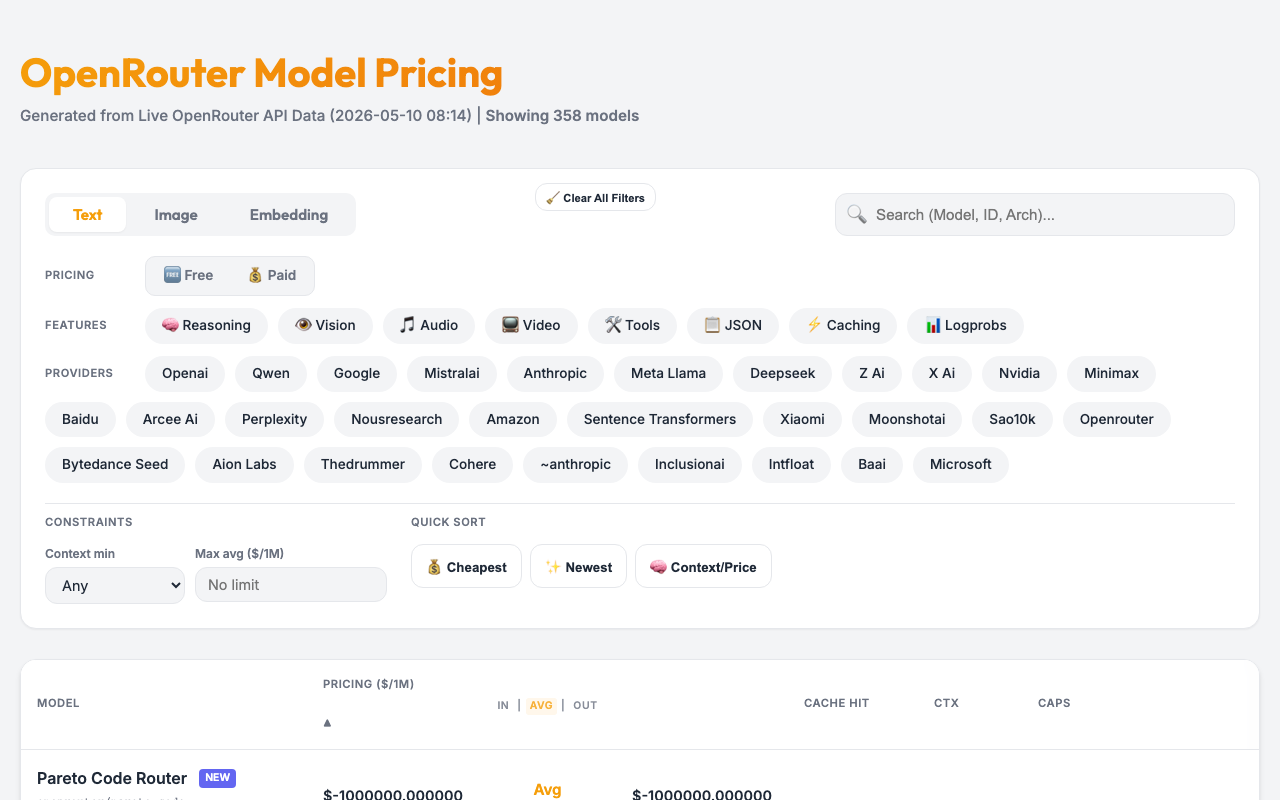
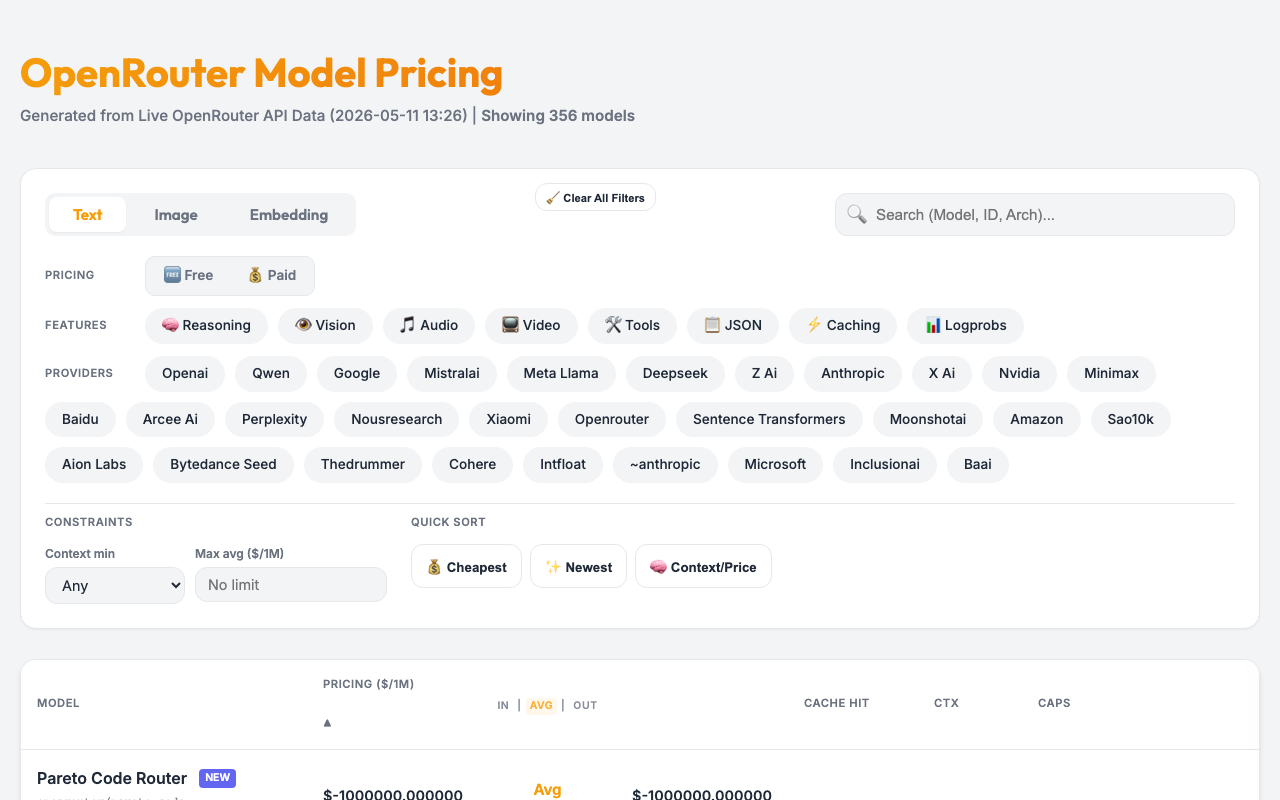
chore: automated pricing update (2026-05-11 13:26:31)
❌ Removed Models (2): anthropic/claude-3.7-sonnet, anthropic/claude-3.7-sonnet:thinking
🔄 Changed Models (1): moonshotai/kimi-k2.5

diff --git a/docs/index.html b/docs/index.html
@@ -668,7 +668,7 @@
     <div class="container">
         <header>
             <h1>OpenRouter Model Pricing</h1>
-            <div class="meta">Generated from Live OpenRouter API Data (2026-05-10 08:14)</div>
+            <div class="meta">Generated from Live OpenRouter API Data (2026-05-11 13:26)</div>
         </header>
 
         <div class="controls">
@@ -6058,13 +6058,13 @@
         "instruct_type": null
       },
       "pricing": {
-        "prompt": "0.00000044",
-        "completion": "0.000002",
-        "input_cache_read": "0.00000022"
+        "prompt": "0.0000004",
+        "completion": "0.00000198",
+        "input_cache_read": "0.00000005"
       },
       "top_provider": {
         "context_length": 262144,
-        "max_completion_tokens": 65535,
+        "max_completion_tokens": 262144,
         "is_moderated": false
       },
       "per_request_limits": null,
@@ -16109,124 +16109,6 @@
       }
     },
     {
-      "id": "anthropic/claude-3.7-sonnet",
-      "canonical_slug": "anthropic/claude-3-7-sonnet-20250219",
-      "hugging_face_id": "",
-      "name": "Anthropic: Claude 3.7 Sonnet",
-      "created": 1740422110,
-      "description": "Claude 3.7 Sonnet is an advanced large language model with improved reasoning, coding, and problem-solving capabilities. It introduces a hybrid reasoning approach, allowing users to choose between rapid responses and...",
-      "context_length": 200000,
-      "architecture": {
-        "modality": "text+image+file->text",
-        "input_modalities": [
-          "text",
-          "image",
-          "file"
-        ],
-        "output_modalities": [
-          "text"
-        ],
-        "tokenizer": "Claude",
-        "instruct_type": null
-      },
-      "pricing": {
-        "prompt": "0.000003",
-        "completion": "0.000015",
-        "web_search": "0.01",
-        "input_cache_read": "0.0000003",
-        "input_cache_write": "0.00000375"
-      },
-      "top_provider": {
-        "context_length": 200000,
-        "max_completion_tokens": 64000,
-        "is_moderated": false
-      },
-      "per_request_limits": null,
-      "supported_parameters": [
-        "include_reasoning",
-        "max_tokens",
-        "reasoning",
-        "stop",
-        "temperature",
-        "tool_choice",
-        "tools",
-        "top_p"
-      ],
-      "default_parameters": {
-        "temperature": null,
-        "top_p": null,
-        "top_k": null,
-        "frequency_penalty": null,
-        "presence_penalty": null,
-        "repetition_penalty": null
-      },
-      "supported_voices": null,
-      "knowledge_cutoff": "2024-10-31",
-      "expiration_date": "2026-05-11",
-      "links": {
-        "details": "/api/v1/models/anthropic/claude-3-7-sonnet-20250219/endpoints"
-      }
-    },
-    {
-      "id": "anthropic/claude-3.7-sonnet:thinking",
-      "canonical_slug": "anthropic/claude-3-7-sonnet-20250219",
-      "hugging_face_id": "",
-      "name": "Anthropic: Claude 3.7 Sonnet (thinking)",
-      "created": 1740422110,
-      "description": "Claude 3.7 Sonnet is an advanced large language model with improved reasoning, coding, and problem-solving capabilities. It introduces a hybrid reasoning approach, allowing users to choose between rapid responses and...",
-      "context_length": 200000,
-      "architecture": {
-        "modality": "text+image+file->text",
-        "input_modalities": [
-          "text",
-          "image",
-          "file"
-        ],
-        "output_modalities": [
-          "text"
-        ],
-        "tokenizer": "Claude",
-        "instruct_type": null
-      },
-      "pricing": {
-        "prompt": "0.000003",
-        "completion": "0.000015",
-        "web_search": "0.01",
-        "input_cache_read": "0.0000003",
-        "input_cache_write": "0.00000375"
-      },
-      "top_provider": {
-        "context_length": 200000,
-        "max_completion_tokens": 64000,
-        "is_moderated": false
-      },
-      "per_request_limits": null,
-      "supported_parameters": [
-        "include_reasoning",
-        "max_tokens",
-        "reasoning",
-        "stop",
-        "temperature",
-        "tool_choice",
-        "tools",
-        "top_p"
-      ],
-      "default_parameters": {
-        "temperature": null,
-        "top_p": null,
-        "top_k": null,
-        "frequency_penalty": null,
-        "presence_penalty": null,
-        "repetition_penalty": null
-      },
-      "supported_voices": null,
-      "knowledge_cutoff": "2024-10-31",
-      "expiration_date": "2026-05-11",
-      "links": {
-        "details": "/api/v1/models/anthropic/claude-3-7-sonnet-20250219/endpoints"
-      }
-    },
-    {
       "id": "mistralai/mistral-saba",
       "canonical_slug": "mistralai/mistral-saba-2502",
       "hugging_face_id": "",
@@ -22563,7 +22445,7 @@
     }
   ]
 };
-        window.providerOptions = ['openai', 'qwen', 'google', 'mistralai', 'anthropic', 'meta-llama', 'deepseek', 'z-ai', 'x-ai', 'nvidia', 'minimax', 'baidu', 'arcee-ai', 'perplexity', 'nousresearch', 'amazon', 'sentence-transformers', 'xiaomi', 'moonshotai', 'sao10k', 'openrouter', 'bytedance-seed', 'aion-labs', 'thedrummer', 'cohere', '~anthropic', 'inclusionai', 'intfloat', 'baai', 'microsoft', 'liquid', 'poolside', 'rekaai', 'inflection', 'morph', '~openai', 'relace', 'tencent', 'ibm-granite', '~google', 'thenlper', 'upstage', 'writer', 'alibaba', 'kwaipilot', 'prime-intellect', 'essentialai', 'anthracite-org', 'cognitivecomputations', 'ai21', 'stepfun', 'mancer', 'allenai', 'switchpoint', 'gryphe', '~moonshotai', 'undi95', 'bytedance', 'inception', 'alpindale', 'alfredpros', 'deepcogito', 'nex-agi'];
+        window.providerOptions = ['openai', 'qwen', 'google', 'mistralai', 'meta-llama', 'deepseek', 'z-ai', 'anthropic', 'x-ai', 'nvidia', 'minimax', 'baidu', 'arcee-ai', 'perplexity', 'nousresearch', 'xiaomi', 'openrouter', 'sentence-transformers', 'moonshotai', 'amazon', 'sao10k', 'aion-labs', 'bytedance-seed', 'thedrummer', 'cohere', 'intfloat', '~anthropic', 'microsoft', 'inclusionai', 'baai', 'liquid', 'thenlper', 'inflection', 'poolside', 'relace', '~openai', 'rekaai', 'morph', 'tencent', '~google', 'ibm-granite', 'writer', 'inception', 'ai21', 'cognitivecomputations', '~moonshotai', 'allenai', 'alibaba', 'gryphe', 'alfredpros', 'upstage', 'prime-intellect', 'mancer', 'anthracite-org', 'essentialai', 'stepfun', 'bytedance', 'deepcogito', 'alpindale', 'undi95', 'switchpoint', 'kwaipilot', 'nex-agi'];
         let currentTab = 'text';
         let sortKey = 'price_avg';
         let sortAsc = true;
